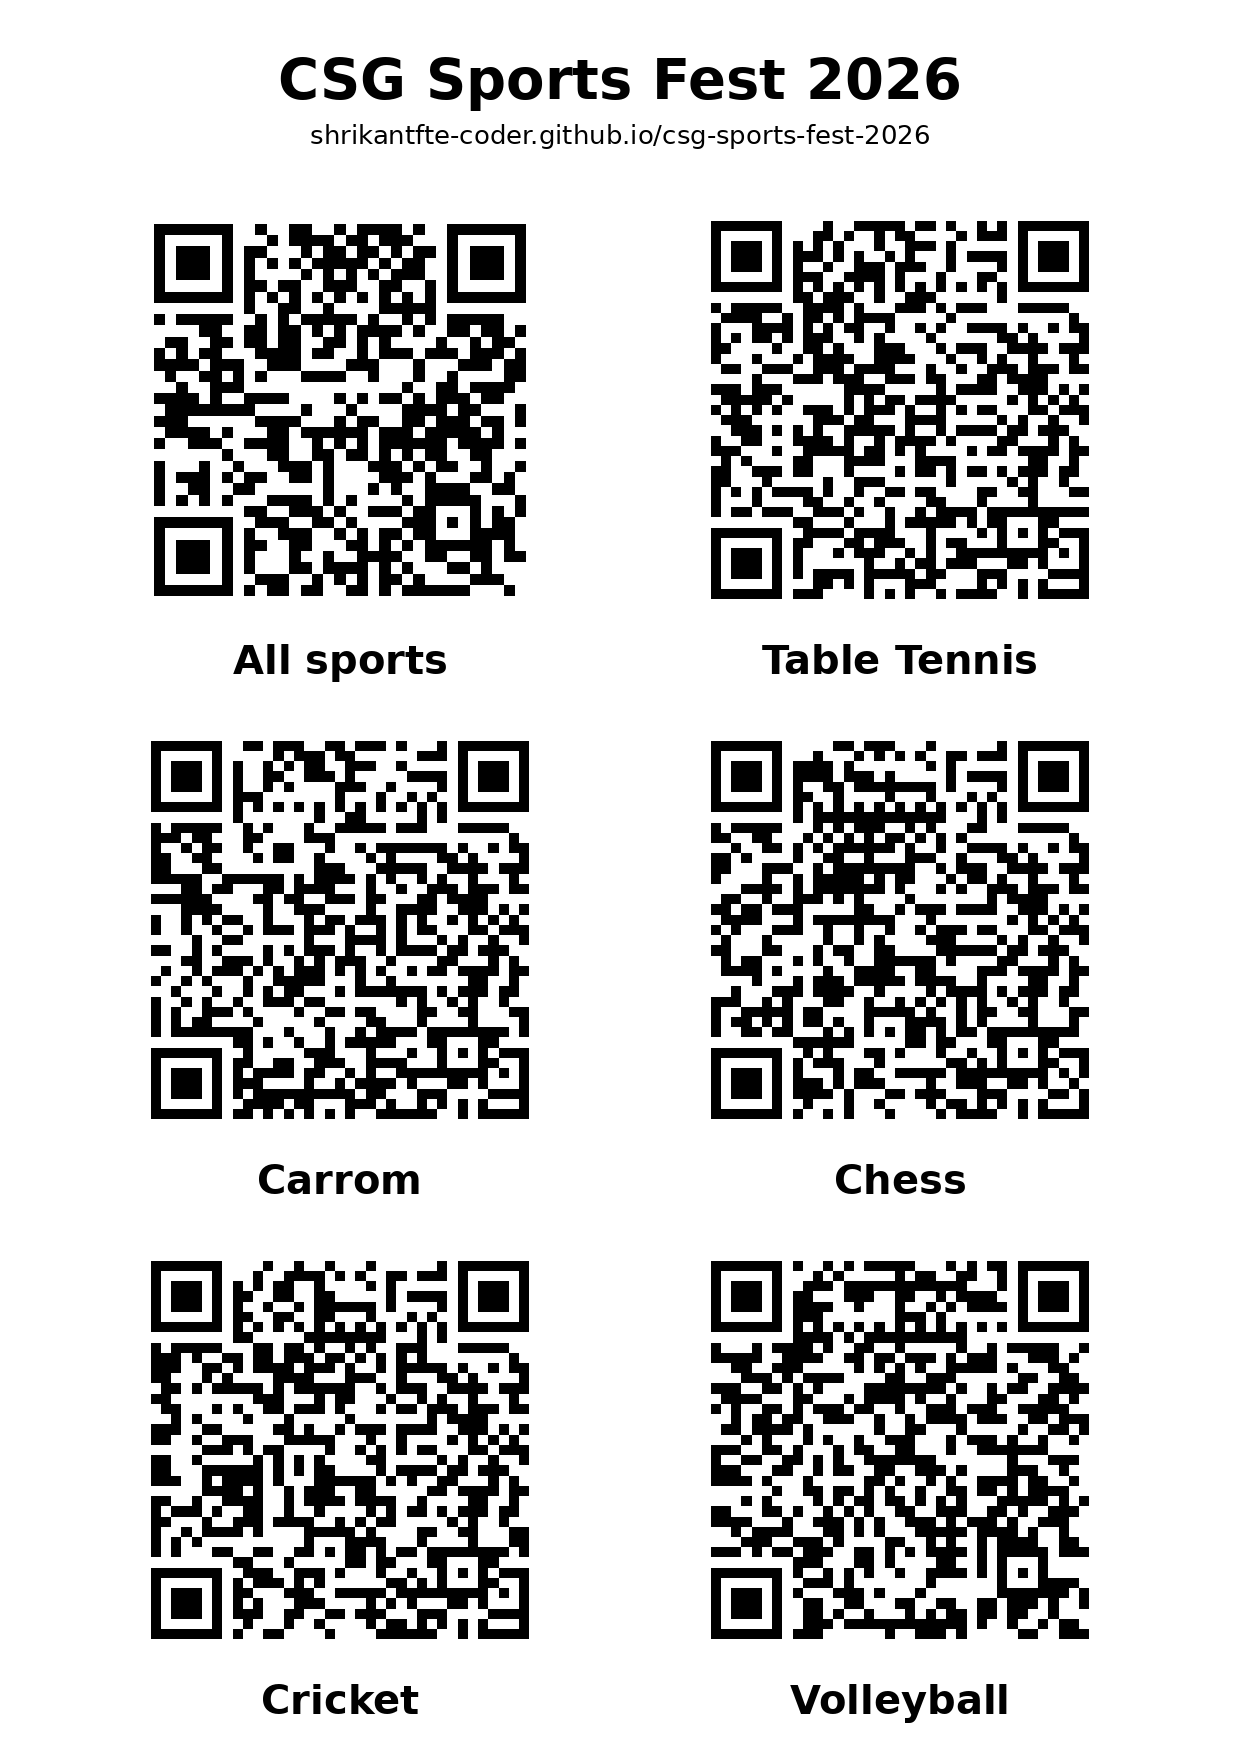
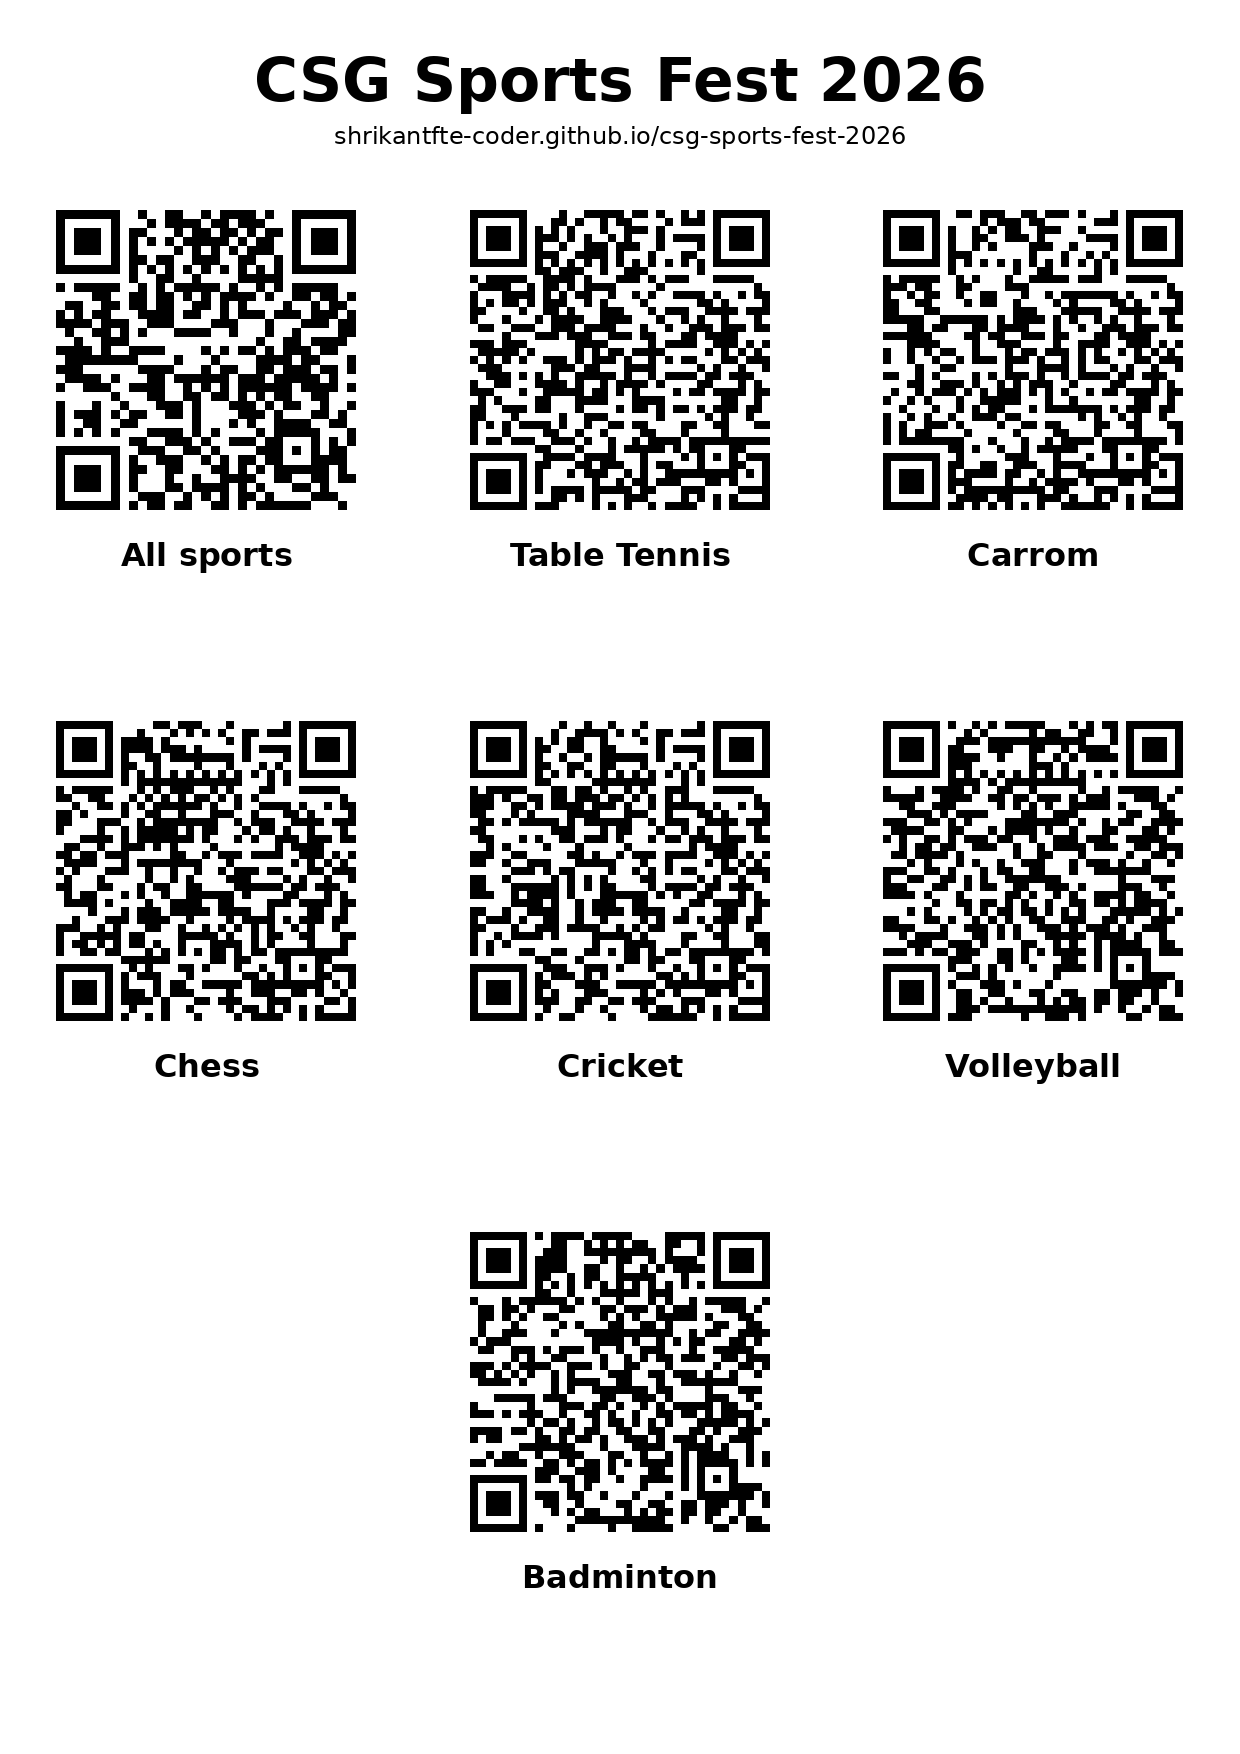
Add Badminton: page, QR code, admin fixtures and login
Badminton on 6 Dec at Invictus Sports Arena near Yeshwantpur; Men's and
Women's Singles and Doubles. Fixtures are added from the admin page like
table tennis (event + stage), and a 'badminton' sport login can be created.

Claude-Session: https://claude.ai/code/session_016xdUtsGuSSTAizD1aYcHRF

Changed region(s): [[0.0306, 0.0308, 0.9806, 0.6773], [0.1226, 0.6773, 0.8887, 0.9852]]

diff --git a/site.js b/site.js
@@ -7,10 +7,13 @@ const SPORTS = [
   {id:"chess", key:"chess", list:"chess", name:"Chess", c:"--chess"},
   {id:"cricket", key:"cricket", list:"cricketFixtures", name:"Cricket", c:"--cricket"},
   {id:"volleyball", key:"volleyball", list:"volleyballFixtures", name:"Volleyball", c:"--volley"},
+  {id:"badminton", key:"badminton", list:"badminton", name:"Badminton", c:"--badminton"},
 ];
 const OFFICE = "CSG Office premises";
 const CRICKET_MAP = "https://maps.app.goo.gl/8DuRAhPuMddGuS2p8";
 const VOLLEY_MAP = "https://maps.app.goo.gl/tTLeYtSKwnfJVtUPA";
+const BADMINTON_VENUE = "Invictus Sports Arena, near Yeshwantpur";
+const BADMINTON_DATE = "2026-12-06";   // shown until badminton fixtures (which carry their own dates) are added
 const TT_EVENTS = {MS:"Men's Singles", WS:"Women's Singles", MD:"Men's Doubles", WD:"Women's Doubles"};
 const CARROM_ROUNDS = {R1:"Round 1", R2:"Round 2", R3:"Round 3", RR:"Round Robin", FINAL:"Final"};
 const TROPHY = '<svg viewBox="0 0 24 24" aria-hidden="true" fill="none" stroke="currentColor" stroke-width="2" stroke-linecap="round" stroke-linejoin="round"><path d="M8 21h8M12 17v4M7 4h10v5a5 5 0 0 1-10 0V4Z"/><path d="M17 5h3v2a3 3 0 0 1-3 3M7 5H4v2a3 3 0 0 0 3 3"/></svg>';
@@ -42,6 +45,7 @@ function buildMatches(){
   L.carrom.forEach(r => push(r, {sport:"carrom", time:r.time, id:r.id, tag:r.round, label:CARROM_ROUNDS[r.round]||r.round}));
   L.chess.forEach(r => push(r, {sport:"chess", time:slotStart(r.slot), slot:r.slot, id:r.no?`#${r.no}`:"", tag:r.group?`Grp ${r.group}`:(r.round||""), group:r.group, round:r.round, board:r.board,
     label: r.group ? `Group ${r.group} · ${r.round} · Board ${r.board}` : (r.b ? `${r.round||"Knock-out"}${r.board?` · Board ${r.board}`:""}` : "Tie-breaks")}));
+  L.badminton.forEach(r => { const stage = r.stage || "League"; push(r, {sport:"badminton", time:r.time, id:r.id, tag:r.event, stage, label:(TT_EVENTS[r.event]||r.event)+(stage!=="League"?` · ${stage}`:"")}); });
   [["cricket","cricketFixtures"],["volleyball","volleyballFixtures"]].forEach(([k,f]) => L[f].forEach(r => push(r, {sport:k, time:r.time, id:r.id, tag:r.stage, stage:r.stage, label:r.stage})));
   MATCHES.sort(byTime);
 }
@@ -66,7 +70,7 @@ function matchRow(m, q, opts={}){
   const when = opts.withDate ? `${esc(m.time)}<small>${fmtDay(m.date)}</small>` : `${esc(m.time)}${m.end?`<small>to ${esc(m.end)}</small>`:""}`;
   const vs = m.b ? `${sideHTML(m,"a",q)}<i>vs</i>${sideHTML(m,"b",q)}${decided(m)&&m.winner==="draw"?' <b class="dtag">Draw</b>':""}` : `<span class="tbd">${esc(m.a)}</span>`;
   const tag = opts.withSport ? sp.name : m.tag;
-  const stage = m.sport==="tt" && m.stage && m.stage!=="League" ? ` · ${esc(m.stage)}` : "";
+  const stage = (m.sport==="tt"||m.sport==="badminton") && m.stage && m.stage!=="League" ? ` · ${esc(m.stage)}` : "";
   const sub = opts.withSport ? `${esc(m.label||"")}${m.id?" · "+esc(m.id):""}` : `${esc(m.id)}${stage}${m.board?(/^\d/.test(m.board)?` · Board ${esc(m.board)}`:` · ${esc(m.board)}`):""}`;
   let out = "";
   if(opts.person && !opts.asRef && decided(m)){
@@ -198,19 +202,36 @@ function viewVolley(){
   ${teamSportBody("volleyball","volleyballFixtures",teams,D.volleyball.map(t=>t.name))}
   ${qrBlock("volleyball","Volleyball")}`;
 }
+function viewBadminton(){
+  const ev = filter.badminton || "all";
+  const all = MATCHES.filter(m=>m.sport==="badminton");
+  const list = all.filter(m=>ev==="all"||m.tag===ev);
+  const chips = ["all","MS","WS","MD","WD"].map(k=>`<button class="chip" data-f="badminton" data-v="${k}" aria-pressed="${ev===k}">${k==="all"?"All events":TT_EVENTS[k]}</button>`).join("");
+  const players = {};
+  D.badminton.forEach(r => [r.a,r.b].forEach(p => { if(p && !isTBD(p)) (players[r.event] ||= new Set()).add(p); }));
+  const teams = ["MS","WS","MD","WD"].filter(k=>players[k]).map(k=>`<div class="team"><h4>${TT_EVENTS[k]}<small>${players[k].size} ${k.endsWith("D")?"pairs":"players"}</small></h4><ul>${[...players[k]].sort((a,b)=>a.localeCompare(b)).map(p=>`<li>${esc(p)}</li>`).join("")}</ul></div>`).join("");
+  const body = all.length
+    ? `<section class="sec"><div class="sec-h"><h3>Fixtures</h3><span>${all.length} matches</span></div><div class="chips">${chips}</div>${dayBlocks(list)}</section>${teams?`<section class="sec"><div class="sec-h"><h3>Players &amp; pairs</h3></div><div class="grid">${teams}</div></section>`:""}`
+    : `<div class="soon"><h3>Fixtures coming soon</h3><p>Match times and players will be posted here once they are ready.</p></div>`;
+  return `
+  <div class="hero"><div class="eyebrow">Singles &amp; doubles${all.length?` · ${all.length} matches`:""}</div><h2>Badminton</h2>${champs("badminton")}
+    <div class="facts">${fact("Venue",BADMINTON_VENUE)}${fact("Date",all.length?dateRange("badminton"):fmtDay(BADMINTON_DATE))}${fact("Events","Men's &amp; Women's Singles and Doubles")}</div></div>
+  ${body}
+  ${qrBlock("badminton","Badminton")}`;
+}
 function viewAll(){
   const upcoming = MATCHES.filter(m=>m.date && m.date>=todayISO);
   const nextDay = upcoming.length ? upcoming[0].date : null;
   const dayList = nextDay ? upcoming.filter(m=>m.date===nextDay) : [];
   const recent = MATCHES.filter(decided).sort((x,y)=>byTime(y,x)).slice(0,8);
   const timing = {tt:"from 5:30 PM", carrom:"5:00 – 7:00 PM", chess:"4:00 – 6:30 PM"};
-  const venue = {tt:OFFICE, carrom:OFFICE, chess:OFFICE, cricket:"Invictus Sports Arena, Hesarghatta Rd", volleyball:"Volleyball ground"};
+  const venue = {tt:OFFICE, carrom:OFFICE, chess:OFFICE, cricket:"Invictus Sports Arena, Hesarghatta Rd", volleyball:"Volleyball ground", badminton:BADMINTON_VENUE};
   const cards = SPORTS.map(s=>{
     const ms = MATCHES.filter(m=>m.sport===s.key), done = ms.filter(decided).length;
     const champ = R.champions.filter(c=>c.key===s.list).map(c=>`<span class="champ-line">${TROPHY}${c.event?esc(c.event)+": ":""}${esc(titleCase(c.name))}</span>`).join("");
     const count = s.key==="chess" ? `${Object.values(D.chessGroups).reduce((n,p)=>n+p.length,0)} players` : s.key==="carrom" ? `${D.carromTeams.length} teams` : s.key==="cricket" ? `${D.cricket.length} teams` : s.key==="volleyball" ? `${D.volleyball.length} teams` : "";
     const st = !ms.length ? "Fixtures coming soon" : done===ms.length ? "Completed" : done ? `${done} of ${ms.length} results in` : "Fixtures out";
-    const when = ms.length ? `${dateRange(s.key)}${timing[s.key]?" · "+timing[s.key]:""}` : "Dates to be announced";
+    const when = ms.length ? `${dateRange(s.key)}${timing[s.key]?" · "+timing[s.key]:""}` : s.key==="badminton" ? fmtDay(BADMINTON_DATE) : "Dates to be announced";
     return `<a class="card" href="#${s.id}" style="--c:var(${s.c})"><span class="st">${st}</span><h3>${s.name}</h3>${champ}<p>${when}<br>${venue[s.key]}<br>${[count, ms.length?`${ms.length} matches`:""].filter(Boolean).join(" · ")}</p><span class="go">View ${ms.length?"fixtures":"teams & venue"} →</span></a>`;
   }).join("");
   const qrs = [{id:"",name:"All sports",c:"--all"},...SPORTS].map(s=>`<div class="qr" style="--c:var(${s.c})"><div class="code"><img src="qr/qr-${s.id||"all"}.png" alt="QR code for ${esc(s.name)}" width="150" height="150"></div><b>${s.name}</b><button class="copy" type="button" data-copy="${esc(pageURL(s.id))}">Copy link</button></div>`).join("");
@@ -238,6 +259,10 @@ function buildPeople(){
     const ev = TT_EVENTS[r.event]||r.event, dbl = String(r.event).endsWith("D");
     [r.a,r.b].forEach(n=>add(n,{sport:"tt",text:`Table Tennis · ${ev}${dbl?" (team)":""}`}));
     if(r.ref) add(r.ref,{sport:"tt",text:"Table Tennis · Referee"});
+  });
+  D.badminton.forEach(r=>{
+    const ev = TT_EVENTS[r.event]||r.event, dbl = String(r.event).endsWith("D");
+    [r.a,r.b].forEach(n=>add(n,{sport:"badminton",text:`Badminton · ${ev}${dbl?" (team)":""}`}));
   });
   D.carromTeams.forEach(t=>add(t.name,{sport:"carrom",text:`Carrom · Team ${pad(t.no)}`}));
   Object.entries(D.chessGroups).forEach(([g,ps])=>ps.forEach(n=>add(n,{sport:"chess",text:`Chess · Group ${g}`})));
@@ -268,7 +293,7 @@ function viewSearch(raw){
 }
 
 /* ---------- Router ---------- */
-const VIEWS = {"":viewAll,"table-tennis":viewTT,carrom:viewCarrom,chess:viewChess,cricket:viewCricket,volleyball:viewVolley};
+const VIEWS = {"":viewAll,"table-tennis":viewTT,carrom:viewCarrom,chess:viewChess,cricket:viewCricket,volleyball:viewVolley,badminton:viewBadminton};
 function current(){ const h = location.hash.replace("#",""); return h in VIEWS ? h : ""; }
 function render(){
   if(!D) return;

diff --git a/admin.html b/admin.html
@@ -205,6 +205,7 @@ const PAGES = [
   {id:"chess", name:"Chess", hash:"#chess"},
   {id:"cricket", name:"Cricket", hash:"#cricket"},
   {id:"volleyball", name:"Volleyball", hash:"#volleyball"},
+  {id:"badminton", name:"Badminton", hash:"#badminton"},
 ];
 /* login: the default username for that sport's organiser. teamKeys: the parts of data.json that sport's login may change besides its fixtures. */
 const SPORTS = [
@@ -213,6 +214,7 @@ const SPORTS = [
   {list:"chess", name:"Chess", p:"Player", draw:"Draw", login:"chess", teamKeys:["chessGroups","chessPlays"], teamTab:"chess"},
   {list:"cricketFixtures", name:"Cricket", p:"Team", draw:"Tie", login:"cricket", teamKeys:["cricket"], teamTab:"cricket"},
   {list:"volleyballFixtures", name:"Volleyball", p:"Team", draw:"", login:"volleyball", teamKeys:["volleyball"], teamTab:"volleyball"},
+  {list:"badminton", name:"Badminton", p:"Player", draw:"", login:"badminton", teamKeys:[], teamTab:null},
 ];
 const TT_EVENTS = {MS:"Men's singles", WS:"Women's singles", MD:"Men's doubles", WD:"Women's doubles"};
 const sportOf = list => SPORTS.find(s=>s.list===list);
@@ -222,6 +224,7 @@ const FIX = {
   carrom:{cols:[["id","Match","s"],["date","Date","date"],["time","Time","t"],["round","Round",["R1","R2","R3","RR","FINAL"]],["a","Team 1","l"],["b","Team 2","l"],["winner","Winner","win"],["result","Score / note","l"]]},
   chess:{cols:[["no","#","s"],["date","Date","date"],["slot","Slot","t"],["group","Group","s"],["round","Round","s"],["board","Board","s"],["a","Player 1","l"],["b","Player 2","l"],["winner","Winner","win"],["result","Score / note","l"]]},
   cricketFixtures:{cols:[["id","Match","s"],["date","Date","date"],["time","Time","t"],["stage","Stage","s"],["a","Team 1","l"],["b","Team 2","l"],["winner","Winner","win"],["result","Score / note","l"]]},
+  badminton:{cols:[["id","Match","s"],["date","Date","date"],["time","Time","t"],["event","Event",["MS","WS","MD","WD"]],["stage","Stage",["League","Quarter-final","Semi-final","Final"]],["a","Player / pair 1","l"],["b","Player / pair 2","l"],["winner","Winner","win"],["result","Score / note","l"]]},
   volleyballFixtures:{cols:[["id","Match","s"],["date","Date","date"],["time","Time","t"],["stage","Stage","s"],["a","Team 1","l"],["b","Team 2","l"],["winner","Winner","win"],["result","Score / note","l"]]},
 };
 const $ = s => document.querySelector(s);
@@ -375,7 +378,7 @@ $("#loginForm").addEventListener("submit", async e => {
 $("#logout").addEventListener("click", () => { sess.set(null); location.reload(); });
 
 /* ---------- data, drafts and merging ---------- */
-function freshLists(d){ d.cricketFixtures ||= []; d.volleyballFixtures ||= []; return d; }
+function freshLists(d){ d.cricketFixtures ||= []; d.volleyballFixtures ||= []; d.badminton ||= []; return d; }
 function merge(base, mine, theirs){
   const out = {...theirs}, conflicts = [];
   new Set([...Object.keys(base), ...Object.keys(mine), ...Object.keys(theirs)]).forEach(k => {
@@ -499,7 +502,7 @@ function winCard(list, r){
   const S = sportOf(list);
   const id = list==="chess" ? (r.no?`#${r.no}`:"") : (r.id||"");
   const time = r.start || r.time || r.slot || "";
-  const stage = list==="tt" ? `${r.event}${r.stage&&r.stage!=="League"?" "+r.stage:""}` : list==="chess" ? (r.group?`Group ${r.group} · ${r.round}`:r.round) : list==="carrom" ? r.round : r.stage;
+  const stage = list==="tt"||list==="badminton" ? `${r.event}${r.stage&&r.stage!=="League"?" "+r.stage:""}` : list==="chess" ? (r.group?`Group ${r.group} · ${r.round}`:r.round) : list==="carrom" ? r.round : r.stage;
   const meta = [id, fmtDay(r.date), time, stage].filter(Boolean).map(esc).join(" · ");
   const waiting = [r.A, r.B].filter(Fest.isTBD);
   const blocked = waiting.length > 0, done = Fest.hasWinner(r) && !blocked;
@@ -556,7 +559,7 @@ function eachName(list, fn){
     return r===undefined || r===s ? val : r;
   };
   (D[list]||[]).forEach(r => {
-    const where = list==="tt" ? (TT_EVENTS[r.event]||r.event||"") : list==="chess" && r.group ? `Group ${r.group}` : "";
+    const where = list==="tt"||list==="badminton" ? (TT_EVENTS[r.event]||r.event||"") : list==="chess" && r.group ? `Group ${r.group}` : "";
     ["a","b"].forEach(k => { if(r[k]!=null){ const v = visit(r[k], {match:true, where}); if(v!==r[k]) r[k] = v; } });
     if(list==="tt" && r.ref!=null){ const v = visit(r.ref, {where:"Referee"}); if(v!==r.ref) r.ref = v; }
   });
@@ -601,7 +604,7 @@ function viewTeams(){
   const cards = shown.map(x => `<div class="nrow"><div class="nline"><input class="nin" value="${esc(x.name)}" data-orig="${esc(x.name)}" aria-label="Name: ${esc(x.name)}" autocomplete="off" spellcheck="false"><button class="btn small primary" type="button" data-rename="${esc(x.key)}" disabled>Save</button></div>${
       nameMsg && nameMsg.key===x.key ? `<small class="nmsg ok">✓ ${esc(nameMsg.text)}</small>` : `<small class="nmsg muted">${esc(meta(x))}</small>${twice(x)}`}</div>`).join("");
   const scope = {tt:"every match and referee slot", carrom:"the team list and every match", chess:"the groups and every match"}[nameSport] || "the team lists and every match";
-  const empty = !names.length ? `No names yet. Add ${S.p==="Team"?"teams":"players"} below${nameSport==="tt"?" or under Fixtures":""}.` : "No names match that search.";
+  const empty = !names.length ? `No names yet. Add ${S.p==="Team"?"teams":"players"} below${nameSport==="tt"||nameSport==="badminton"?" or under Fixtures":""}.` : "No names match that search.";
   let roster = "";
   if(teamSport==="cricket" || teamSport==="volleyball"){
     roster = `<h3>Add or remove players and teams</h3>
@@ -800,7 +803,7 @@ document.addEventListener("click", async e => {
   if(t.id==="addRow"){
     const S = FIX[fixSport], last = D[fixSport][D[fixSport].length-1] || {};
     const r = {};
-    S.cols.forEach(([k,,type])=>{ if(k==="winner"||k==="result") return; r[k] = k==="date" ? (last.date||todayISO) : Array.isArray(type) ? (last[k]||type[0]) : ""; });
+    S.cols.forEach(([k,,type])=>{ if(k==="winner"||k==="result") return; r[k] = k==="date" ? (last.date||(fixSport==="badminton"?"2026-12-06":todayISO)) : Array.isArray(type) ? (last[k]||type[0]) : ""; });
     D[fixSport].push(r); filterText = ""; render();
     const inputs = document.querySelectorAll("tbody tr:last-child input"); inputs[0]?.focus(); inputs[0]?.scrollIntoView({block:"center"});
     return;

diff --git a/core.js b/core.js
@@ -6,16 +6,17 @@
 window.Fest = (() => {
   const norm = s => String(s ?? "").toLowerCase().replace(/[^\p{L}\p{N}\p{M}]/gu, "").replace(/h/g, "");
   const isTBD = s => /^(winner of|loser of|1st in|2nd in|3rd in|4th in)\b/i.test(String(s ?? "").trim());
-  const LISTS = ["tt", "carrom", "chess", "cricketFixtures", "volleyballFixtures"];
+  const LISTS = ["tt", "carrom", "chess", "cricketFixtures", "volleyballFixtures", "badminton"];
   const POINTS = {
     tt: { w: 1, d: 0, l: 0 },
     carrom: { w: 2, d: 1, l: 0 },
     chess: { w: 1, d: 0.5, l: 0 },
     cricketFixtures: { w: 2, d: 1, l: 0 },
     volleyballFixtures: { w: 2, d: 0, l: 0 },
+    badminton: { w: 1, d: 0, l: 0 },
   };
   const idOf = (key, r) => key === "chess" ? String(r.no ?? "") : String(r.id ?? "");
-  const stageOf = (key, r) => String((key === "tt" ? (r.stage || "League") : key === "carrom" || key === "chess" ? r.round : r.stage) || "").trim();
+  const stageOf = (key, r) => String((key === "tt" || key === "badminton" ? (r.stage || "League") : key === "carrom" || key === "chess" ? r.round : r.stage) || "").trim();
   const isFinal = (key, r) => /^final$/i.test(stageOf(key, r));
   const isKnockout = (key, r) => /final|semi|quarter|knock|qualif|elimin|^r\d$|^sf$|^qf$/i.test(stageOf(key, r)) && !/^rr$|round robin/i.test(stageOf(key, r));
   const isRR = (key, r) => key === "carrom" && /^(rr|round robin)$/i.test(stageOf(key, r));
@@ -102,7 +103,7 @@ window.Fest = (() => {
     const champions = [];
     LISTS.forEach(key => lists[key].forEach(r => {
       if (isFinal(key, r) && decided(r) && r.winner !== "draw") {
-        champions.push({ key, event: key === "tt" ? r.event : "", name: r.winner === "a" ? r.A : r.B });
+        champions.push({ key, event: key === "tt" || key === "badminton" ? r.event : "", name: r.winner === "a" ? r.A : r.B });
       }
     }));
     return { lists, rr, champions };

diff --git a/index.html b/index.html
@@ -11,7 +11,7 @@
 /* Layout: sticky sport tabs + search on top; each view is a single column of day-grouped fixture lists, teams below. */
 :root{
   --bg:#f4f6f8; --surface:#ffffff; --sunk:#eceff3; --fg:#141922; --muted:#5a6473; --line:#dde2e8;
-  --tt:#d0432a; --carrom:#a86a12; --chess:#3d4466; --cricket:#1c7f47; --volley:#1d63c4; --all:#141922;
+  --tt:#d0432a; --carrom:#a86a12; --chess:#3d4466; --cricket:#1c7f47; --volley:#1d63c4; --badminton:#8a3fb8; --all:#141922;
   --today:#e8a400; --today-bg:#fff6dc; --win:#17773f; --win-bg:#e2f3e8;
   --qr-bg:#ffffff;
   --display:"Barlow Condensed","Arial Narrow",system-ui,sans-serif;
@@ -20,11 +20,11 @@
 }
 @media (prefers-color-scheme: dark){:root:not([data-theme="light"]){
   --bg:#0e1116; --surface:#171b22; --sunk:#1f242d; --fg:#eef1f5; --muted:#9ba4b3; --line:#2b313b;
-  --tt:#ff7a5c; --carrom:#e2a54a; --chess:#a9b1e0; --cricket:#4fc985; --volley:#6aa8ff; --all:#eef1f5;
+  --tt:#ff7a5c; --carrom:#e2a54a; --chess:#a9b1e0; --cricket:#4fc985; --volley:#6aa8ff; --badminton:#c58ae6; --all:#eef1f5;
   --today:#ffc83d; --today-bg:#2c2510; --win:#5fd394; --win-bg:#15301f; color-scheme:dark}}
 :root[data-theme="dark"]{
   --bg:#0e1116; --surface:#171b22; --sunk:#1f242d; --fg:#eef1f5; --muted:#9ba4b3; --line:#2b313b;
-  --tt:#ff7a5c; --carrom:#e2a54a; --chess:#a9b1e0; --cricket:#4fc985; --volley:#6aa8ff; --all:#eef1f5;
+  --tt:#ff7a5c; --carrom:#e2a54a; --chess:#a9b1e0; --cricket:#4fc985; --volley:#6aa8ff; --badminton:#c58ae6; --all:#eef1f5;
   --today:#ffc83d; --today-bg:#2c2510; --win:#5fd394; --win-bg:#15301f; color-scheme:dark}
 *{box-sizing:border-box}
 body{background:var(--bg);color:var(--fg);font-family:var(--body);font-size:16px;line-height:1.45;-webkit-font-smoothing:antialiased}

diff --git a/README.md b/README.md
@@ -1,10 +1,10 @@
 # CSG Sports Fest 2026
 
-Fixtures, teams, venues and player search for Table Tennis, Carrom, Chess, Cricket and Volleyball.
+Fixtures, teams, venues and player search for Table Tennis, Carrom, Chess, Cricket, Volleyball and Badminton.
 
 Live site: https://shrikantfte-coder.github.io/csg-sports-fest-2026/
 
-Sport pages: add `#table-tennis`, `#carrom`, `#chess`, `#cricket` or `#volleyball` to the link.
+Sport pages: add `#table-tennis`, `#carrom`, `#chess`, `#cricket`, `#volleyball` or `#badminton` to the link.
 QR codes for each page are in `qr/`.
 
 ## Updating fixtures and winners
